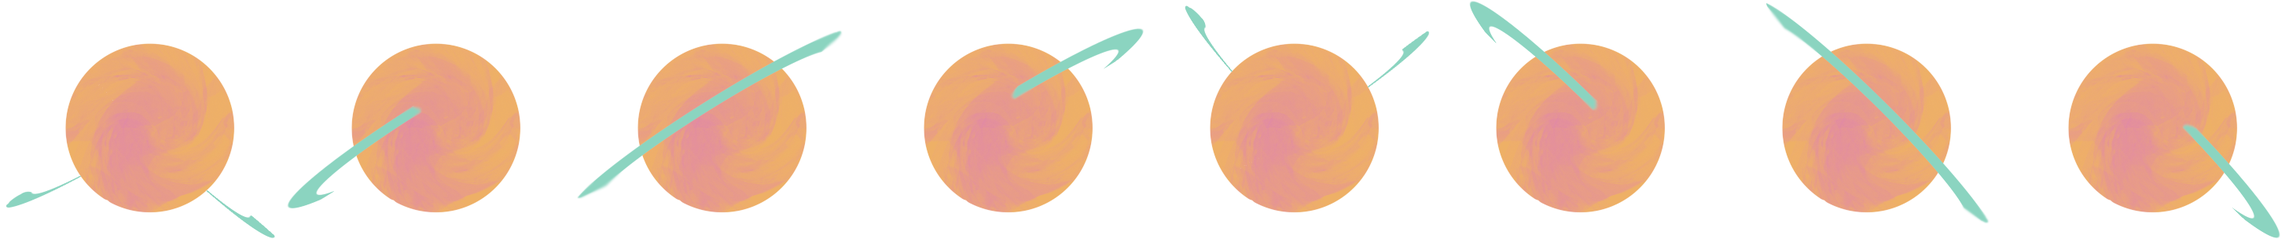
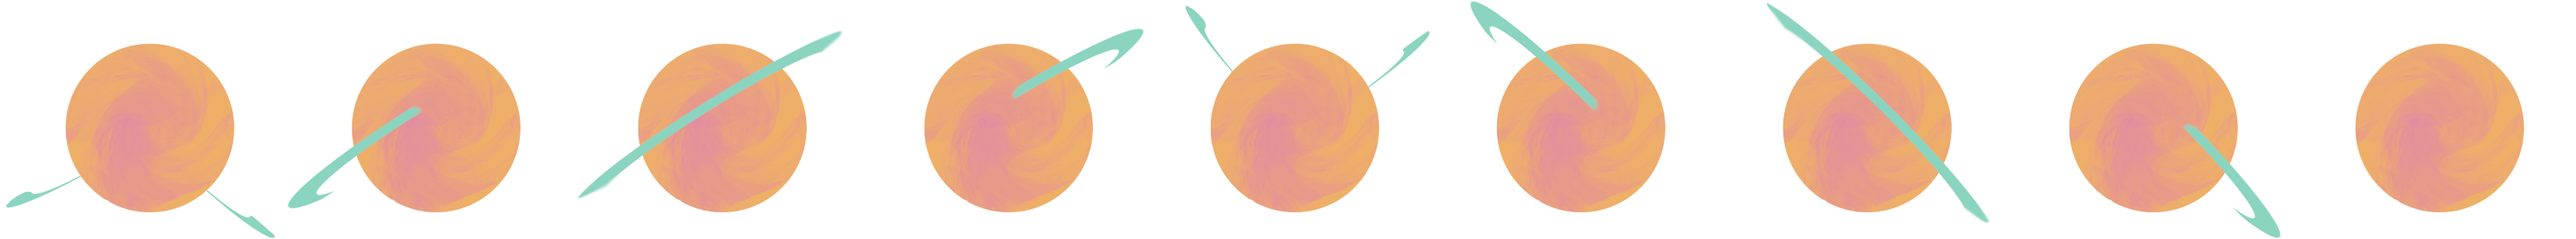
Draw grid and level goals

diff --git a/src/game/win_condition.rs b/src/game/win_condition.rs
@@ -1,0 +1,80 @@
+use bevy::{prelude::*, render::view::RenderLayers};
+
+use crate::{AppSystems, PausableSystems};
+
+use super::{
+    atom::{AtomAssets, AtomType},
+    state::GameState,
+};
+
+#[derive(Component)]
+pub struct Goal(pub AtomType);
+
+pub(super) fn plugin(app: &mut App) {
+    app.add_systems(
+        Update,
+        (check_goal_collisions, check_win_condition)
+            .run_if(in_state(GameState::Running))
+            .in_set(AppSystems::Update)
+            .in_set(PausableSystems),
+    );
+}
+
+pub fn goal(
+    atom_type: AtomType,
+    position: IVec2,
+    atom_assets: &AtomAssets,
+    texture_atlas_layouts: &mut Assets<TextureAtlasLayout>,
+) -> impl Bundle {
+    let layout = TextureAtlasLayout::from_grid(UVec2::new(364, 304), 9, 1, None, None);
+    (
+        Name::new("goal"),
+        Sprite {
+            image: match atom_type {
+                AtomType::Basic => atom_assets.basic.clone(),
+                AtomType::Splitting => atom_assets.splitting.clone(),
+            },
+            color: Color::srgba(1.0, 1.0, 1.0, 0.5), // 50% transparent
+            texture_atlas: Some(TextureAtlas {
+                layout: texture_atlas_layouts.add(layout),
+                index: 8,
+            }),
+            ..default()
+        },
+        Goal(atom_type),
+        Transform::from_xyz(position.x as f32, position.y as f32, 0.0)
+            .with_scale(Vec3::splat(0.002)),
+        RenderLayers::layer(2),
+    )
+}
+
+fn check_goal_collisions(
+    mut commands: Commands,
+    goals: Query<(Entity, &Transform, &Goal)>,
+    atoms: Query<(Entity, &Transform, &AtomType), Without<Goal>>,
+) {
+    for (goal_entity, goal_transform, goal) in &goals {
+        for (atom_entity, atom_transform, atom_type) in &atoms {
+            // Check if atom type matches goal type
+            if *atom_type == goal.0 {
+                let distance = goal_transform
+                    .translation
+                    .distance(atom_transform.translation);
+                let collision_threshold = 0.5;
+
+                if distance < collision_threshold {
+                    // Destroy both the goal and the atom
+                    commands.entity(goal_entity).despawn();
+                    commands.entity(atom_entity).despawn();
+                }
+            }
+        }
+    }
+}
+
+fn check_win_condition(goals: Query<&Goal>) {
+    if goals.is_empty() {
+        // TODO: Handle win condition
+        info!("Win condition met!");
+    }
+}

diff --git a/src/game/level.rs b/src/game/level.rs
@@ -1,9 +1,12 @@
-use bevy::prelude::*;
+use bevy::{prelude::*, render::view::RenderLayers};
+
+use crate::screens::Screen;
 
 use super::{
     atom::{AtomAssets, AtomType, atom},
     movement::{CardinalDirection, Movement},
     state::GameState,
+    win_condition::goal,
 };
 
 #[derive(Resource, Default)]
@@ -11,6 +14,7 @@ pub(super) struct CurrentLevel(pub Option<Level>);
 
 pub(super) struct Level {
     pub atoms: Vec<LevelAtom>,
+    pub goals: Vec<LevelGoal>,
 }
 
 pub(super) struct LevelAtom {
@@ -41,6 +45,20 @@ impl LevelAtom {
     }
 }
 
+pub(super) struct LevelGoal {
+    pub atom_type: AtomType,
+    pub position: IVec2,
+}
+
+impl LevelGoal {
+    pub fn new<P: Into<IVec2>>(atom_type: AtomType, position: P) -> Self {
+        Self {
+            atom_type,
+            position: position.into(),
+        }
+    }
+}
+
 /// Marker component for entities that are part of the current level and thus need to be despawned
 /// when the level is unloaded.
 #[derive(Component)]
@@ -48,6 +66,7 @@ pub struct LevelEntity;
 
 pub(super) fn plugin(app: &mut App) {
     app.init_resource::<CurrentLevel>();
+    app.add_systems(OnEnter(Screen::Gameplay), draw_2d_grid);
     app.add_systems(OnEnter(GameState::Placement), initialise_level);
 }
 
@@ -83,5 +102,36 @@ fn initialise_level(
             entity.insert(velocity.clone());
         }
     }
+
+    // Spawn goal zones
+    for goal_zone in &level.goals {
+        commands.spawn((
+            goal(
+                goal_zone.atom_type,
+                goal_zone.position,
+                &atom_assets,
+                &mut texture_atlas_layouts,
+            ),
+            LevelEntity,
+        ));
+    }
     Ok(())
+}
+
+fn draw_2d_grid(mut commands: Commands, mut gizmo_assets: ResMut<Assets<GizmoAsset>>) {
+    let mut gizmo = GizmoAsset::new();
+    gizmo.grid_2d(
+        Isometry2d::IDENTITY,
+        UVec2::new(30, 20),
+        Vec2::splat(1.0),
+        LinearRgba::gray(0.05),
+    );
+    commands.spawn((
+        Gizmo {
+            handle: gizmo_assets.add(gizmo),
+            ..Default::default()
+        },
+        RenderLayers::layer(1),
+        StateScoped(Screen::Gameplay),
+    ));
 }

diff --git a/src/main.rs b/src/main.rs
@@ -13,7 +13,11 @@ mod menus;
 mod screens;
 mod theme;
 
-use bevy::{asset::AssetMetaCheck, prelude::*, render::camera::ScalingMode};
+use bevy::{
+    asset::AssetMetaCheck,
+    prelude::*,
+    render::{camera::ScalingMode, view::RenderLayers},
+};
 
 fn main() -> AppExit {
     App::new().add_plugins(AppPlugin).run()
@@ -100,9 +104,14 @@ struct Pause(pub bool);
 struct PausableSystems;
 
 fn spawn_camera(mut commands: Commands) {
+    // "Bottom" camera (for drawing gizmos behind other sprites)
     commands.spawn((
-        Name::new("Camera"),
+        Name::new("Bottom Camera"),
         Camera2d,
+        Camera {
+            order: 1,
+            ..Default::default()
+        },
         Projection::from(OrthographicProjection {
             scaling_mode: ScalingMode::AutoMin {
                 min_width: 20.0,
@@ -110,5 +119,24 @@ fn spawn_camera(mut commands: Commands) {
             },
             ..OrthographicProjection::default_2d()
         }),
+        RenderLayers::layer(1),
+    ));
+
+    // main camera
+    commands.spawn((
+        Name::new("Main Camera"),
+        Camera2d,
+        Camera {
+            order: 2,
+            ..Default::default()
+        },
+        Projection::from(OrthographicProjection {
+            scaling_mode: ScalingMode::AutoMin {
+                min_width: 20.0,
+                min_height: 12.0,
+            },
+            ..OrthographicProjection::default_2d()
+        }),
+        RenderLayers::layer(2),
     ));
 }

diff --git a/src/game/mod.rs b/src/game/mod.rs
@@ -1,6 +1,6 @@
 use atom::{AtomAssets, AtomType};
 use bevy::prelude::*;
-use level::{CurrentLevel, Level, LevelAtom};
+use level::{CurrentLevel, Level, LevelAtom, LevelGoal};
 use movement::CardinalDirection;
 
 use crate::{asset_tracking::LoadResource, screens::Screen};
@@ -11,6 +11,7 @@ mod collision;
 mod level;
 mod movement;
 pub mod state;
+mod win_condition;
 
 pub(super) fn plugin(app: &mut App) {
     app.add_plugins((
@@ -19,6 +20,7 @@ pub(super) fn plugin(app: &mut App) {
         state::plugin,
         level::plugin,
         collision::plugin,
+        win_condition::plugin,
     ));
 
     app.register_type::<AtomAssets>();
@@ -32,6 +34,10 @@ fn init_level(mut current_level: ResMut<CurrentLevel>) {
             LevelAtom::new(AtomType::Splitting, (2, 0)),
             LevelAtom::new_with_velocity(AtomType::Basic, (-2, 0), CardinalDirection::E),
             LevelAtom::new(AtomType::Basic, (3, 1)),
+        ],
+        goals: vec![
+            LevelGoal::new(AtomType::Splitting, (4, 2)),
+            LevelGoal::new(AtomType::Basic, (3, -1)),
         ],
     });
 }

diff --git a/src/game/atom.rs b/src/game/atom.rs
@@ -1,8 +1,8 @@
-use bevy::prelude::*;
+use bevy::{prelude::*, render::view::RenderLayers};
 
 use super::animation::Animated;
 
-#[derive(Clone, Copy, Component)]
+#[derive(Clone, Copy, Component, PartialEq, Eq, PartialOrd)]
 pub enum AtomType {
     Basic,
     Splitting,
@@ -33,7 +33,7 @@ pub fn atom(
     atom_assets: &AtomAssets,
     texture_atlas_layouts: &mut Assets<TextureAtlasLayout>,
 ) -> impl Bundle {
-    let layout = TextureAtlasLayout::from_grid(UVec2::new(364, 304), 8, 1, None, None);
+    let layout = TextureAtlasLayout::from_grid(UVec2::new(364, 304), 9, 1, None, None);
     (
         Name::new("Basic atom"),
         Sprite::from_atlas_image(
@@ -50,5 +50,6 @@ pub fn atom(
         Animated::new(8),
         Transform::from_xyz(position.x as f32, position.y as f32, 0.0)
             .with_scale(Vec3::splat(0.002)),
+        RenderLayers::layer(2),
     )
 }
